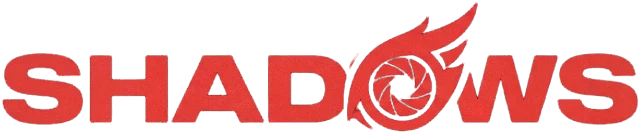
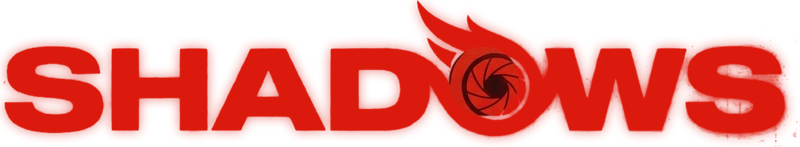
v101: lens perf (static glow, coalesced drag, grain rests while turning), heavier red wordmark from reference

diff --git a/js/dial.js b/js/dial.js
@@ -85,7 +85,7 @@
     setTimeout(blink, 3500);
 
     var pvrow = el.querySelector('#pvrow'), pvt = [].slice.call(el.querySelectorAll('.pvt')), ring = el.querySelector('#eRing');
-    function pvset(deg, anim) { var pos = deg / STEP; pvrow.style.transition = anim ? 'transform .2s cubic-bezier(.25,.8,.3,1)' : 'none'; pvrow.style.transform = 'translateX(' + (-pos * 100).toFixed(1) + 'px)'; pvt.forEach(function (t, i) { var k = Math.max(0, 1 - Math.abs(i - pos)); t.style.transition = anim ? 'transform .2s, opacity .2s' : 'none'; t.style.transform = 'scale(' + (.86 + .24 * k).toFixed(3) + ')'; t.style.opacity = (.42 + .58 * k).toFixed(2); t.classList.toggle('on', k > .5); }); ring.style.transform = 'rotate(' + (deg * 2.4).toFixed(1) + 'deg)'; }
+    function pvset(deg, anim) { var pos = deg / STEP; pvrow.style.transition = anim ? 'transform .2s cubic-bezier(.25,.8,.3,1)' : 'none'; pvrow.style.transform = 'translateX(' + (-pos * 100).toFixed(1) + 'px)'; pvt.forEach(function (t, i) { var k = Math.max(0, 1 - Math.abs(i - pos)), tr = 'scale(' + (.86 + .24 * k).toFixed(3) + ')', op = (.42 + .58 * k).toFixed(2), tn = anim ? 'transform .2s, opacity .2s' : 'none', c = t._c || (t._c = {}); if (c.tn !== tn) { t.style.transition = tn; c.tn = tn; } if (c.tr !== tr) { t.style.transform = tr; c.tr = tr; } if (c.op !== op) { t.style.opacity = op; c.op = op; } var on = k > .5; if (c.on !== on) { t.classList.toggle('on', on); c.on = on; } }); ring.style.transform = 'rotate(' + (deg * 2.4).toFixed(1) + 'deg)'; }
     function put(deg, anim) { pvset(deg, anim); wheel.style.transition = anim ? 'transform .2s cubic-bezier(.25,.8,.3,1)' : 'none'; wheel.style.transform = 'translateZ(0) rotate(' + (-deg).toFixed(2) + 'deg)'; rot = deg; }
     function mark(i) { btns.forEach(function (b, k) { b.classList.toggle('on', k === i); }); }
     function say(i, on) { lab.textContent = items[i].label(); lab.classList.toggle('on', !!on); }
@@ -93,6 +93,8 @@
     put(cur * STEP, false); mark(cur);
     /* Physical dial: put a finger on the eye and turn it, clockwise or counter-clockwise, no tap first.
        The wheel follows the finger around its pivot, the page under the notch is the pick, release opens it. */
+    var busyT = null;
+    function busy(on) { clearTimeout(busyT); if (on) document.body.classList.add('lensbusy'); else busyT = setTimeout(function () { document.body.classList.remove('lensbusy'); }, 900); }
     var GAIN = .85, piv = null, a0 = 0, aPrev = 0, aAcc = 0, downT = null;
     function ang(e) { return Math.atan2(e.clientY - piv.y, e.clientX - piv.x) * 180 / Math.PI; }
     function closeSoon(ms) { clearTimeout(idle); idle = setTimeout(function () { setOpen(false); lab.classList.remove('on'); }, ms); }
@@ -101,9 +103,11 @@
       var onEye = !!t.closest('#eyebtn'), onDome = open && !!t.closest('.dome'); if (!onEye && !onDome) return;
       clearTimeout(idle); setOpen(true); clearTimeout(idle); downT = t; dragging = true; moved = false; sx = e.clientX;
       var r = wheel.getBoundingClientRect(); piv = { x: r.left, y: r.top }; aPrev = ang(e); aAcc = 0; startRot = cur * STEP; cand = cur;
-      el.classList.add('turning'); try { el.setPointerCapture(e.pointerId); } catch (x) {}
+      el.classList.add('turning'); busy(true); try { el.setPointerCapture(e.pointerId); } catch (x) {}
     });
-    el.addEventListener('pointermove', function (e) {
+    var pmE = null, pmR = 0;
+    el.addEventListener('pointermove', function (e) { if (!dragging) return; pmE = e; if (!pmR) pmR = requestAnimationFrame(function () { pmR = 0; var ev = pmE; pmE = null; if (ev && dragging) pmove(ev); }); });
+    function pmove(e) {
       if (!dragging) return;
       var a = ang(e), dd = a - aPrev; if (dd > 180) dd -= 360; if (dd < -180) dd += 360; aPrev = a; aAcc += dd;
       if (!moved && Math.abs(aAcc) < 4 && Math.abs(e.clientX - sx) < 6) return; moved = true;
@@ -111,15 +115,15 @@
       var deg = Math.max(-8, Math.min((n - 1) * STEP + 8, startRot + aAcc * GAIN)); put(deg, false); if (o.onDrag) o.onDrag((deg - cur * STEP) / STEP);
       var c = Math.max(0, Math.min(n - 1, Math.round(deg / STEP)));
       if (c !== cand) { cand = c; mark(c); say(c, true); if (navigator.vibrate) { try { navigator.vibrate(8); } catch (x) {} } }
-    });
+    }
     function end() {
-      if (!dragging) return; dragging = false; lean(0); el.classList.remove('turning');
+      if (!dragging) return; if (pmE) { var fe = pmE; pmE = null; pmove(fe); } busy(false); dragging = false; lean(0); el.classList.remove('turning');
       if (moved) { commit(cand); say(cand, true); closeSoon(0); if (o.onDragEnd) o.onDragEnd(); return; }
       var b = downT && downT.closest ? downT.closest('.wi') : null;
       if (b) { commit(+b.dataset.i); say(+b.dataset.i, true); closeSoon(700); } else closeSoon(1400);
     }
     el.addEventListener('pointerup', end);
-    el.addEventListener('pointercancel', function () { if (dragging) { dragging = false; lean(0); el.classList.remove('turning'); put(cur * STEP, true); mark(cur); lab.classList.remove('on'); closeSoon(300); if (o.onDragEnd) o.onDragEnd(); } });
+    el.addEventListener('pointercancel', function () { if (dragging) { busy(false); dragging = false; lean(0); el.classList.remove('turning'); put(cur * STEP, true); mark(cur); lab.classList.remove('on'); closeSoon(300); if (o.onDragEnd) o.onDragEnd(); } });
     el.addEventListener('keydown', function (e) { var d = e.key === 'ArrowRight' ? 1 : e.key === 'ArrowLeft' ? -1 : 0; if (d) { e.preventDefault(); var i = Math.max(0, Math.min(n - 1, cur + d)); if (i !== cur) commit(i); } });
     return { set: function (i) { cur = i; cand = i; mark(i); put(i * STEP, true); }, caption: function () {}, icon: icon, fx: function () { if (el.animate) el.animate([{ opacity: 1 }, { opacity: .7, offset: .5 }, { opacity: 1 }], { duration: 900 }); }, setLid: function (a) { lids(a || 0); } };
   };

diff --git a/index.html b/index.html
@@ -29,9 +29,9 @@
 <link href="https://fonts.googleapis.com/css2?family=Archivo:wdth,wght@62..125,400..900&family=Cairo:wght@400;600;800&family=Reem+Kufi:wght@500;600;700&family=Noto+Naskh+Arabic:wght@500;700&family=Chakra+Petch:wght@500;600&display=swap" rel="stylesheet">
 <style>html,body{margin:0;background:#08080A;color:#F7F5F5}#boot{position:fixed;inset:0;background:#08080A;display:grid;place-items:center;z-index:99}</style>
 <script>try{document.documentElement.setAttribute("data-theme",localStorage.getItem("crm.theme")||"light")}catch(e){}</script>
-<link rel="stylesheet" href="css/app.css?v=100">
-<link rel="stylesheet" href="css/light.css?v=100">
-<link rel="stylesheet" href="css/polish.css?v=100">
+<link rel="stylesheet" href="css/app.css?v=101">
+<link rel="stylesheet" href="css/light.css?v=101">
+<link rel="stylesheet" href="css/polish.css?v=101">
 </head>
 <body>
 <div id="boot"><div class="bootin"><img class="wings" src="assets/owl-wings.webp" alt="" width="1992" height="1152"><img src="assets/wordmark.webp" alt="Shadows" height="30" style="display:block;margin:6px auto 0"><div class="bootw">WE MOVE IN SILENCE.</div></div></div>
@@ -81,11 +81,11 @@
 <div id="sheet" role="dialog" aria-modal="true"><div class="grab"></div><div id="sheetin"></div></div>
 <div id="toast" role="status"></div>
 
-<script src="js/config.js?v=100"></script>
-<script src="js/i18n.js?v=100"></script>
-<script src="js/store.js?v=100"></script>
-<script src="js/dial.js?v=100"></script>
-<script src="js/fx.js?v=100"></script>
-<script src="js/app.js?v=100"></script>
+<script src="js/config.js?v=101"></script>
+<script src="js/i18n.js?v=101"></script>
+<script src="js/store.js?v=101"></script>
+<script src="js/dial.js?v=101"></script>
+<script src="js/fx.js?v=101"></script>
+<script src="js/app.js?v=101"></script>
 </body>
 </html>

diff --git a/sw.js b/sw.js
@@ -1,4 +1,4 @@
-var C='shadows-crm-v100';
+var C='shadows-crm-v101';
 var A=['./','index.html','css/app.css?v=74','css/light.css?v=74','css/polish.css?v=74','js/config.js?v=74','js/i18n.js?v=74','js/store.js?v=74','js/dial.js?v=74','js/fx.js?v=74','js/app.js?v=74','assets/pin.webp?v=74','join.html','results.html','assets/owl-head.webp','assets/owl-wings.webp','assets/wordmark.webp','assets/icon-192.png','assets/icon-512.png','assets/icon-maskable-512.png','assets/apple-touch-icon.png','assets/eye.webp','manifest.webmanifest'];
 self.addEventListener('install',function(e){e.waitUntil(caches.open(C).then(function(c){return c.addAll(A)}).then(function(){return self.skipWaiting()}))});
 self.addEventListener('activate',function(e){e.waitUntil(caches.keys().then(function(k){return Promise.all(k.filter(function(x){return x!==C&&x!=='shadows-fonts'}).map(function(x){return caches.delete(x)}))}).then(function(){return self.clients.claim()}).then(function(){return self.clients.matchAll({type:'window'})}).then(function(cl){cl.forEach(function(c){try{c.navigate(c.url)}catch(x){}})}))});

diff --git a/css/polish.css b/css/polish.css
@@ -382,3 +382,9 @@ html[data-theme=light] .authwings,html[data-theme=light] .bootin img.wings{filte
 .mact em{font-style:normal;font-size:12px;opacity:.55;font-weight:800;white-space:nowrap}
 .mact .chip{flex:none;border-radius:99px!important;text-transform:none!important}
 .mact .chip{background:var(--soft)!important;color:var(--fg)!important;letter-spacing:.02em!important;font-weight:800;padding:8px 14px}
+
+/* v101 perf: the lens glow is a static layer instead of a filter on the animated SVG; the grain overlay (full-screen blend) rests while the lens is in use */
+#dial .oeye{filter:none!important}
+#dial .eyebtn::before{content:"";position:absolute;inset:0;border-radius:50%;box-shadow:0 6px 14px rgba(225,24,39,.35);z-index:-1;pointer-events:none;transition:opacity .15s}
+#dial.open .eyebtn::before{opacity:0}
+body.lensbusy::after{visibility:hidden}
